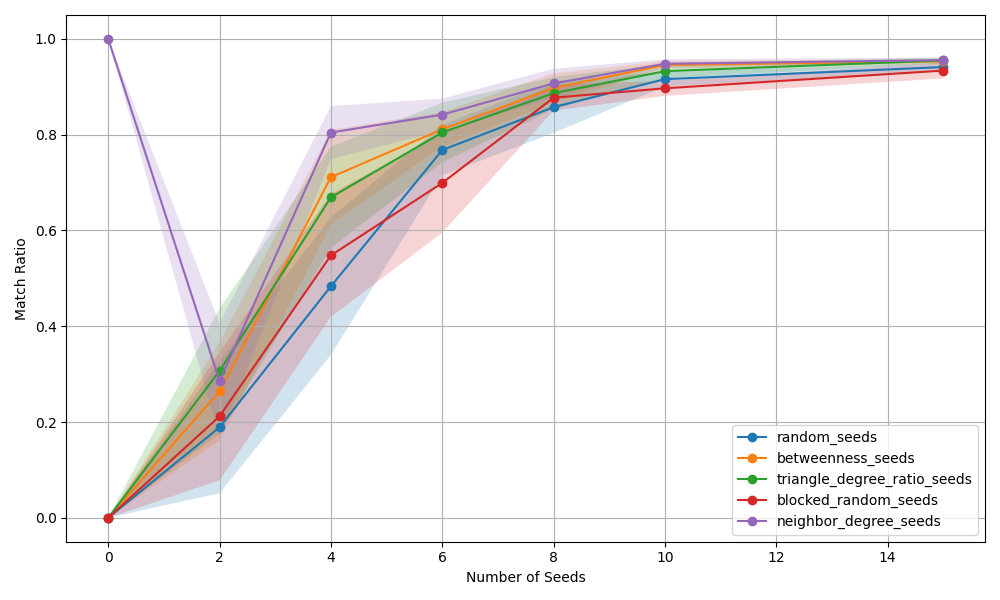
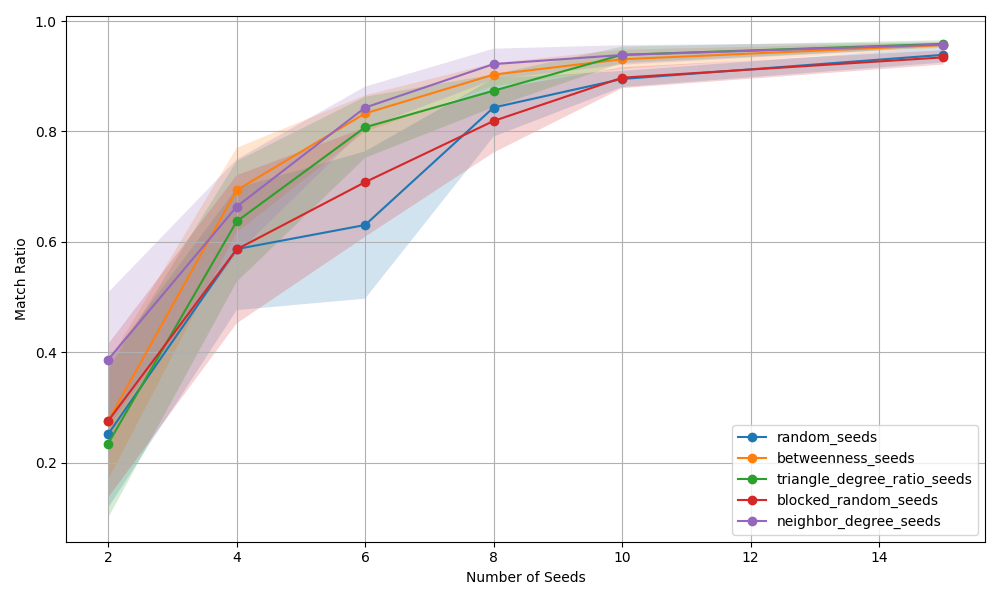
reran sparse SBM with percolation

diff --git a/tests.py b/tests.py
@@ -6,6 +6,37 @@ from test_seeding import graspologic_algorithm
 from ExpandWhenStuck import graph_match_percolation
 
 TESTS = [
+    
+    {
+        "name": "Sparse SBM Graph with Percolation",
+        "graph_gen_func": lambda: gen_SBM_graphs(n_per_block=200, n_blocks=3, rho=.8, 
+                                                 block_probs=np.array([
+                                                    [0.02, 0.005, 0.01],
+                                                    [0.005, 0.02, 0.005],
+                                                    [0.01, 0.005, 0.02]
+                                                ])),
+        "seeding_funcs": [random_seeds, betweenness_seeds, triangle_degree_ratio_seeds, blocked_random_seeds, neighbor_degree_seeds],
+        "algorithm": graph_match_percolation,
+        "seed_numbers": [2,4,6,8,10,15],
+        "trials": 20
+    },
+    
+]
+
+OLD_TESTS = [
+    {
+        "name": "Sparse SBM Graph with SGM",
+        "graph_gen_func": lambda: gen_SBM_graphs(n_per_block=200, n_blocks=3, rho=.8, 
+                                                 block_probs=np.array([
+                                                    [0.02, 0.005, 0.01],
+                                                    [0.005, 0.02, 0.005],
+                                                    [0.01, 0.005, 0.02]
+                                                ])),
+        "seeding_funcs": [random_seeds, betweenness_seeds, triangle_degree_ratio_seeds, blocked_random_seeds, neighbor_degree_seeds],
+        "algorithm": graspologic_algorithm,
+        "seed_numbers": [2,4,6,8,10,15,20,25],
+        "trials": 20
+    },
     {
         "name": "Dense SBM Graph with SGM",
         "graph_gen_func": lambda: gen_SBM_graphs(n_per_block=200, n_blocks=3, rho=.5, 
@@ -51,35 +82,6 @@ TESTS = [
         "seed_numbers": [2,4,6,8,10,15,22,30,50,80],
         "trials": 20
     },
-    {
-        "name": "Sparse SBM Graph with Percolation",
-        "graph_gen_func": lambda: gen_SBM_graphs(n_per_block=200, n_blocks=3, rho=.8, 
-                                                 block_probs=np.array([
-                                                    [0.02, 0.005, 0.01],
-                                                    [0.005, 0.02, 0.005],
-                                                    [0.01, 0.005, 0.02]
-                                                ])),
-        "seeding_funcs": [random_seeds, betweenness_seeds, triangle_degree_ratio_seeds, blocked_random_seeds, neighbor_degree_seeds],
-        "algorithm": graph_match_percolation,
-        "seed_numbers": [0,2,4,6,8,10,15],
-        "trials": 20
-    },
-    {
-        "name": "Sparse SBM Graph with SGM",
-        "graph_gen_func": lambda: gen_SBM_graphs(n_per_block=200, n_blocks=3, rho=.8, 
-                                                 block_probs=np.array([
-                                                    [0.02, 0.005, 0.01],
-                                                    [0.005, 0.02, 0.005],
-                                                    [0.01, 0.005, 0.02]
-                                                ])),
-        "seeding_funcs": [random_seeds, betweenness_seeds, triangle_degree_ratio_seeds, blocked_random_seeds, neighbor_degree_seeds],
-        "algorithm": graspologic_algorithm,
-        "seed_numbers": [2,4,6,8,10,15,20,25],
-        "trials": 20
-    }
-]
-
-OLD_TESTS = [
     {
         "name": "Sparse ER Graph with SGM",
         "graph_gen_func": lambda: gen_ER_graphs(n=600, p=.01, rho=.5),
